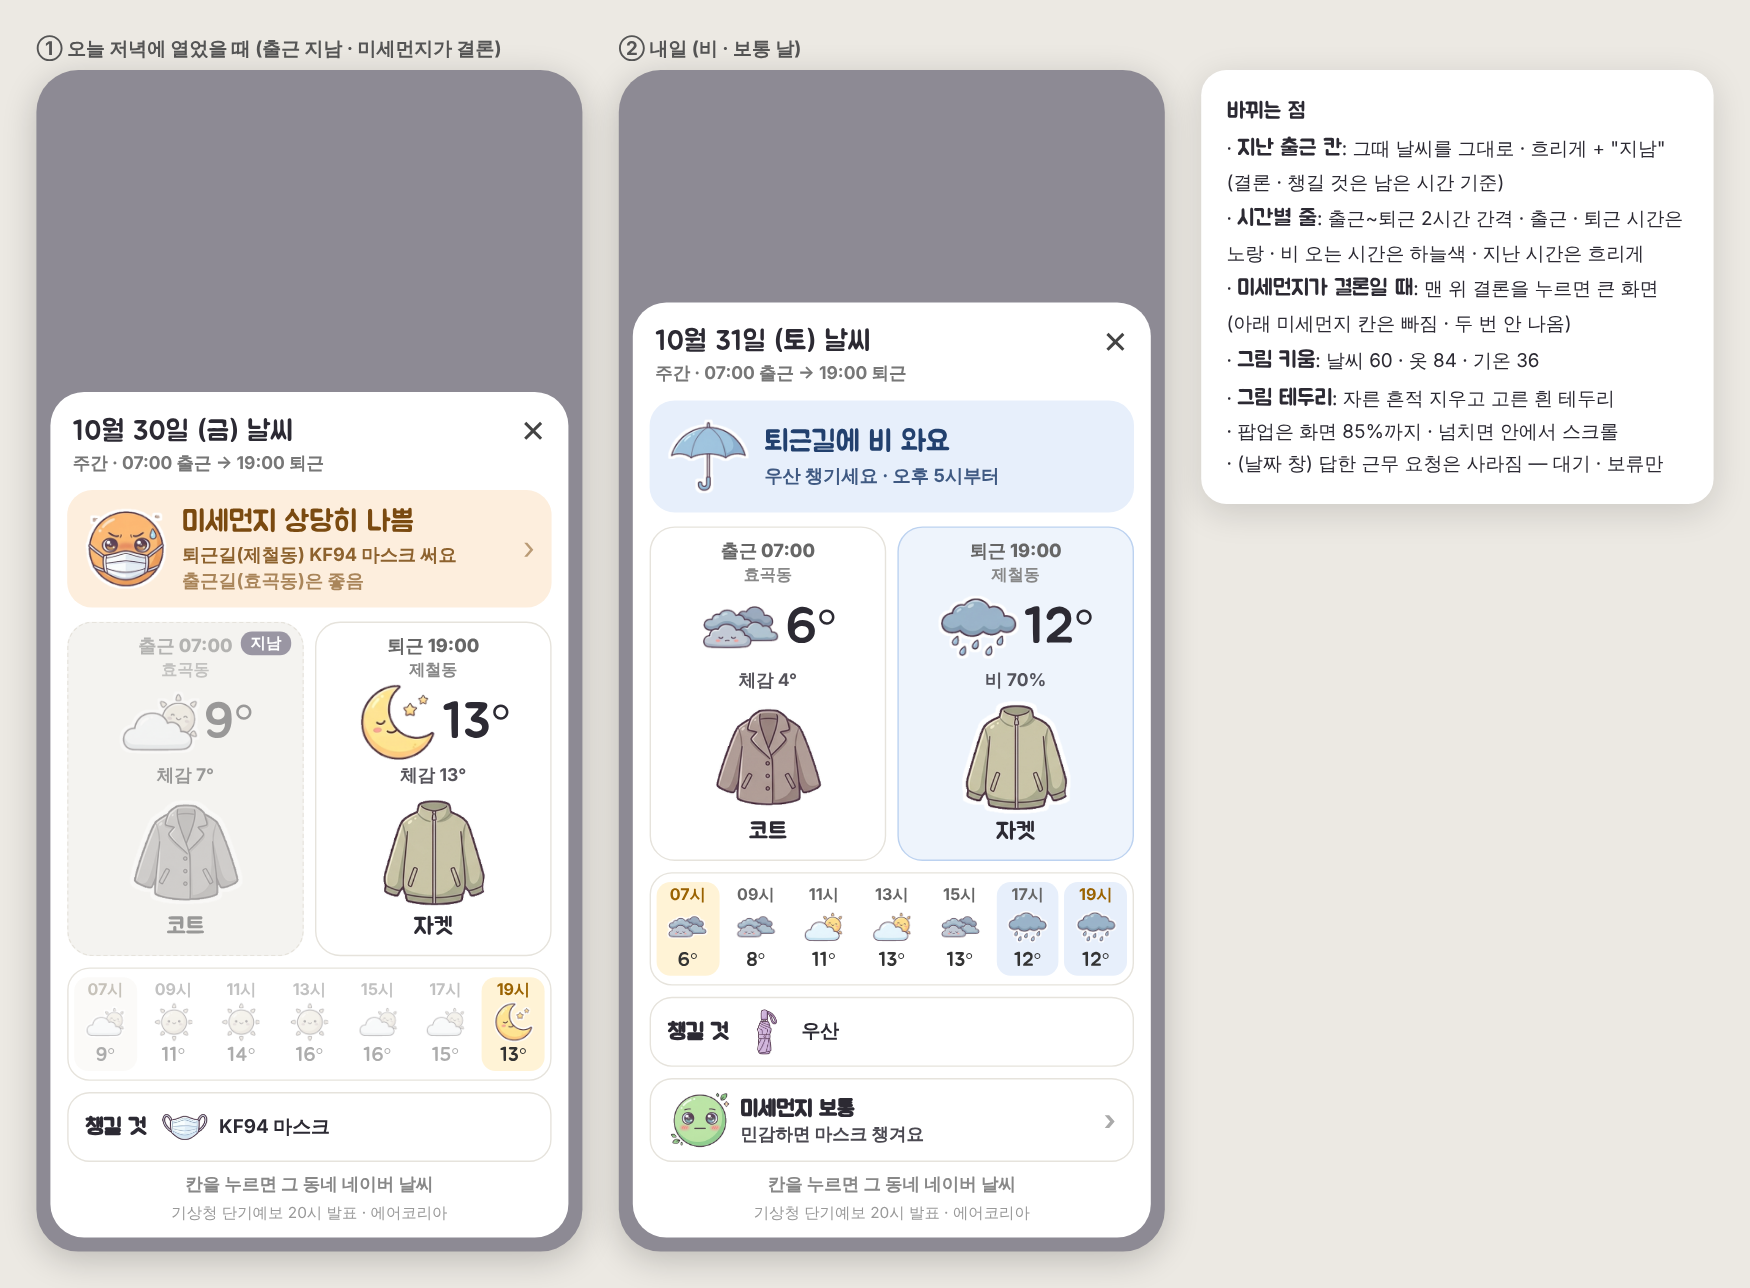
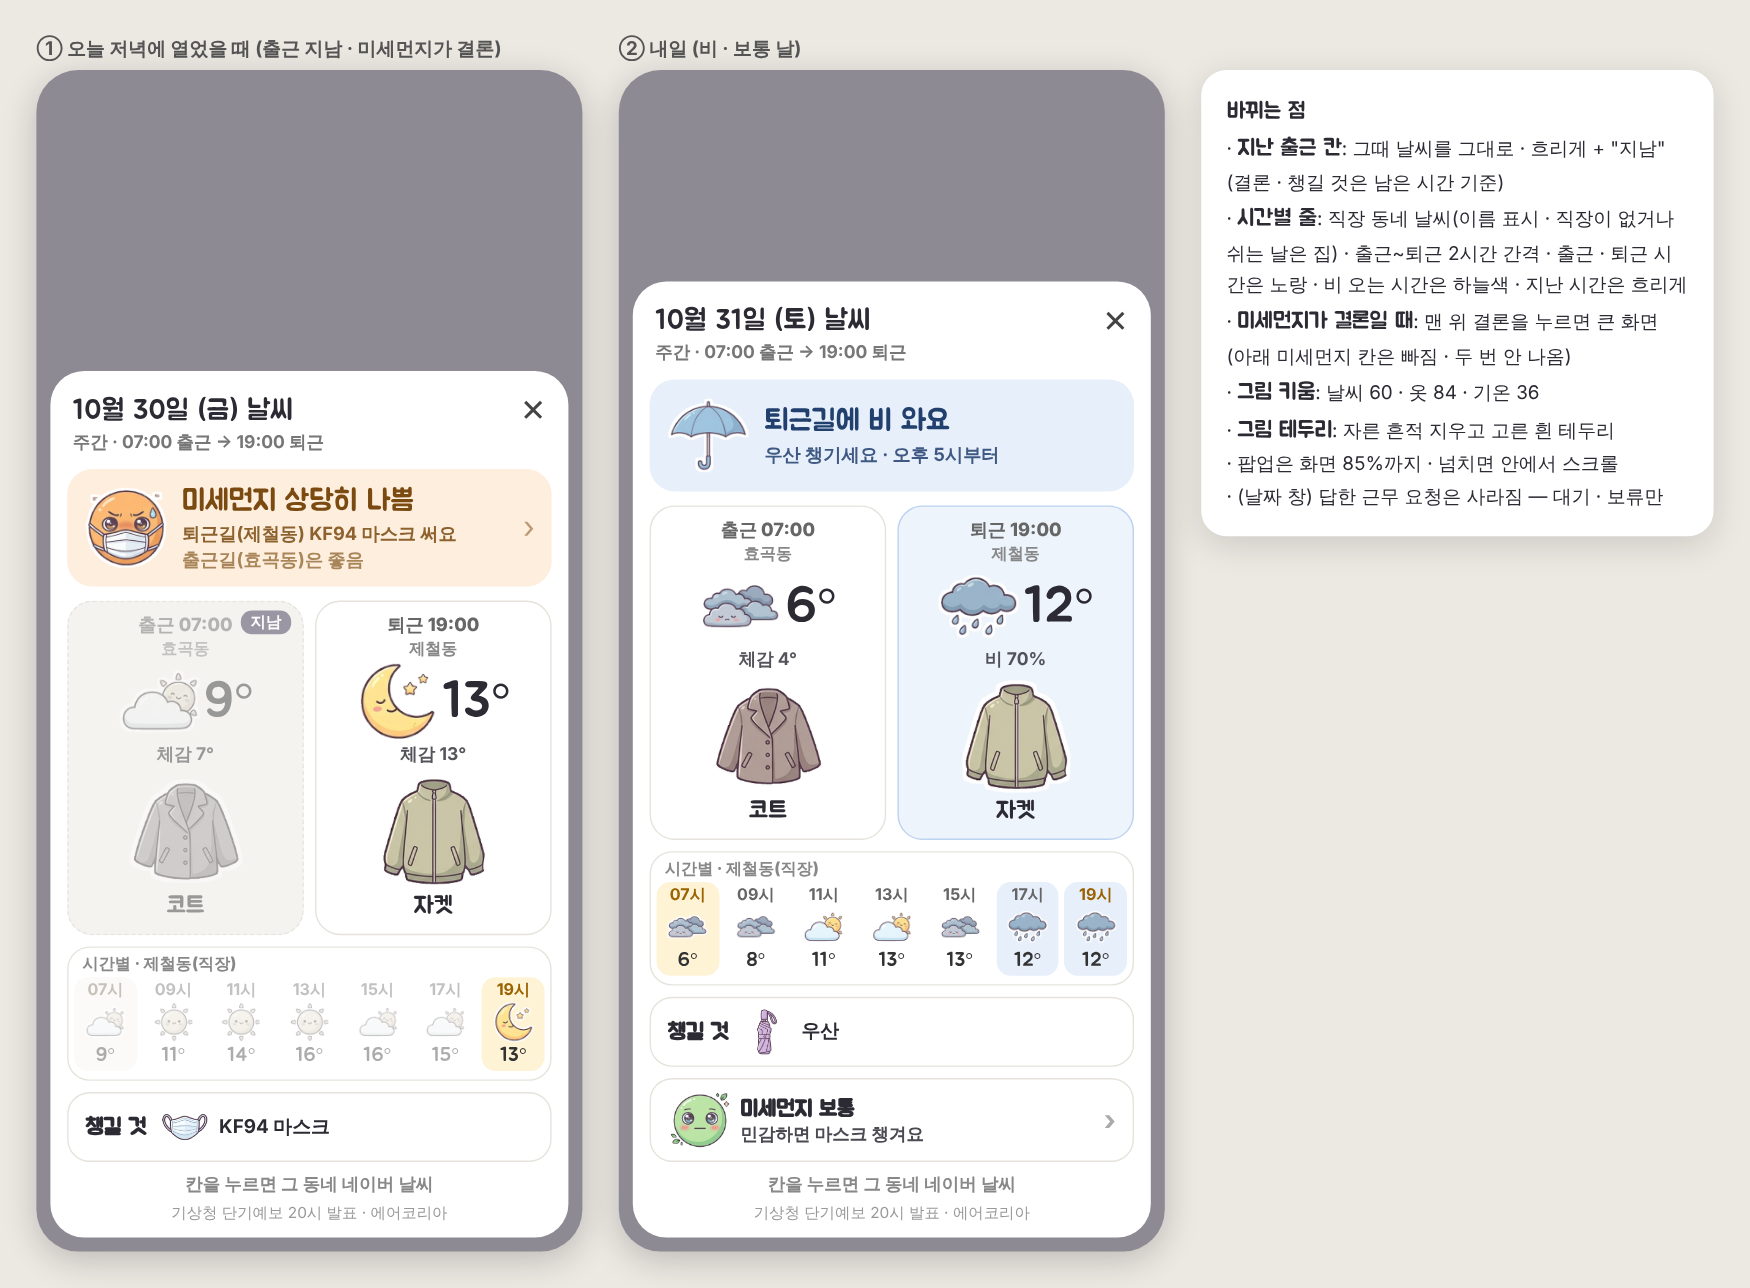
시안 v3: 시간별 줄 = 직장 동네 (이름 표시)
Claude-Session: https://claude.ai/code/session_01JTBnEvptp151JygSjZNCTX

diff --git a/design/weather/v3-mock.html b/design/weather/v3-mock.html
@@ -10,7 +10,7 @@ body{margin:0;background:#ece9e3;font-family:system-ui,'Noto Sans CJK KR',sans-s
 .c .s{display:flex;align-items:center;justify-content:center;gap:2px}.c .s img{width:60px}.c .s b{font-family:J;font-weight:400;font-size:36px;line-height:1}
 .c .d{font-size:12.5px;font-weight:700;opacity:.8}.c img.w{display:block;width:84px;margin:4px auto 0}.c .y{font-family:J;font-size:17px}
 .c.past{background:#f4f3f0;border-style:dashed}.c.past>*:not(.tag){opacity:.45;filter:grayscale(.8)}.tag{position:absolute;top:6px;right:8px;font-size:11px;font-weight:800;color:#fff;background:#9a96a3;border-radius:8px;padding:1px 7px}
-.hr{display:flex;gap:4px;margin-top:8px;padding:6px 4px;border-radius:16px;border:1.5px solid #e6e3dc}
+.hrw{margin-top:8px;padding:4px 4px 6px;border-radius:16px;border:1.5px solid #e6e3dc}.hrw .hl{font-size:11.5px;font-weight:800;color:#888;padding:0 6px 2px}.hrw .hr{border:0;margin:0;padding:0}.hr{display:flex;gap:4px;margin-top:8px;padding:6px 4px;border-radius:16px;border:1.5px solid #e6e3dc}
 .h{flex:1;text-align:center;font-size:11.5px;font-weight:700;color:#666;border-radius:10px;padding:2px 0}.h img{display:block;width:30px;margin:0 auto}.h b{display:block;font-family:J;font-weight:400;font-size:14px;color:#333}
 .h.on{background:#fff3d6;color:#9a6200}.h.wet{background:#e7effb}.h.pa{opacity:.4;filter:grayscale(.8)}
 .row{display:flex;align-items:center;gap:6px;margin-top:8px;padding:6px 12px;border-radius:16px;border:1.5px solid #e6e3dc;font-size:13.5px;font-weight:700}
@@ -22,19 +22,19 @@ body{margin:0;background:#ece9e3;font-family:system-ui,'Noto Sans CJK KR',sans-s
 <div class="k" style="background:#fdeedd;color:#7a4a10"><img src="clean/faces/5_sangdang.png"><div><b>미세먼지 상당히 나쁨</b><small>퇴근길(제철동) KF94 마스크 써요<br><span style="opacity:.75">출근길(효곡동)은 좋음</span></small></div><span class="go">›</span></div>
 <div class="cs"><div class="c past"><span class="tag">지남</span><div class="l">출근 07:00</div><div class="p">효곡동</div><div class="s"><img src="clean/sky/partly.png"><b>9°</b></div><div class="d">체감 7°</div><img class="w" src="clean/wear/coat.png"><div class="y">코트</div></div>
 <div class="c"><div class="l">퇴근 19:00</div><div class="p">제철동</div><div class="s"><img src="clean/sky/moon.png"><b>13°</b></div><div class="d">체감 13°</div><img class="w" src="clean/wear/jacket.png"><div class="y">자켓</div></div></div>
-<div class="hr"><div class="h on pa">07시<img src="clean/sky/partly.png"><b>9°</b></div><div class="h pa">09시<img src="clean/sky/sun.png"><b>11°</b></div><div class="h pa">11시<img src="clean/sky/sun.png"><b>14°</b></div><div class="h pa">13시<img src="clean/sky/sun.png"><b>16°</b></div><div class="h pa">15시<img src="clean/sky/partly.png"><b>16°</b></div><div class="h pa">17시<img src="clean/sky/partly.png"><b>15°</b></div><div class="h on">19시<img src="clean/sky/moon.png"><b>13°</b></div></div>
+<div class="hrw"><div class="hl">시간별 · 제철동(직장)</div><div class="hr"><div class="h on pa">07시<img src="clean/sky/partly.png"><b>9°</b></div><div class="h pa">09시<img src="clean/sky/sun.png"><b>11°</b></div><div class="h pa">11시<img src="clean/sky/sun.png"><b>14°</b></div><div class="h pa">13시<img src="clean/sky/sun.png"><b>16°</b></div><div class="h pa">15시<img src="clean/sky/partly.png"><b>16°</b></div><div class="h pa">17시<img src="clean/sky/partly.png"><b>15°</b></div><div class="h on">19시<img src="clean/sky/moon.png"><b>13°</b></div></div></div>
 <div class="row"><span class="kk">챙길 것</span><img src="clean/wear/mask.png"><span>KF94 마스크</span></div>
 <span class="web">칸을 누르면 그 동네 네이버 날씨</span><div class="src">기상청 단기예보 20시 발표 · 에어코리아</div></div></div></div><div class="wrap"><div class="cap">② 내일 (비 · 보통 날)</div><div class="ph"><div class="sheet">
 <div class="hd"><div><b>10월 31일 (토) 날씨</b><small>주간 · 07:00 출근 → 19:00 퇴근</small></div><span class="x">✕</span></div>
 <div class="k" style="background:#e7effb;color:#22406e"><img src="clean/wear/umbrella.png"><div><b>퇴근길에 비 와요</b><small>우산 챙기세요 · 오후 5시부터</small></div></div>
 <div class="cs"><div class="c"><div class="l">출근 07:00</div><div class="p">효곡동</div><div class="s"><img src="clean/sky/cloudy.png"><b>6°</b></div><div class="d">체감 4°</div><img class="w" src="clean/wear/coat.png"><div class="y">코트</div></div>
 <div class="c hot"><div class="l">퇴근 19:00</div><div class="p">제철동</div><div class="s"><img src="clean/sky/rain.png"><b>12°</b></div><div class="d">비 70%</div><img class="w" src="clean/wear/jacket.png"><div class="y">자켓</div></div></div>
-<div class="hr"><div class="h on">07시<img src="clean/sky/cloudy.png"><b>6°</b></div><div class="h ">09시<img src="clean/sky/cloudy.png"><b>8°</b></div><div class="h ">11시<img src="clean/sky/partly.png"><b>11°</b></div><div class="h ">13시<img src="clean/sky/partly.png"><b>13°</b></div><div class="h ">15시<img src="clean/sky/cloudy.png"><b>13°</b></div><div class="h wet">17시<img src="clean/sky/rain.png"><b>12°</b></div><div class="h on wet">19시<img src="clean/sky/rain.png"><b>12°</b></div></div>
+<div class="hrw"><div class="hl">시간별 · 제철동(직장)</div><div class="hr"><div class="h on">07시<img src="clean/sky/cloudy.png"><b>6°</b></div><div class="h ">09시<img src="clean/sky/cloudy.png"><b>8°</b></div><div class="h ">11시<img src="clean/sky/partly.png"><b>11°</b></div><div class="h ">13시<img src="clean/sky/partly.png"><b>13°</b></div><div class="h ">15시<img src="clean/sky/cloudy.png"><b>13°</b></div><div class="h wet">17시<img src="clean/sky/rain.png"><b>12°</b></div><div class="h on wet">19시<img src="clean/sky/rain.png"><b>12°</b></div></div></div>
 <div class="row"><span class="kk">챙길 것</span><img src="clean/wear/umbrella_fold.png"><span>우산</span></div>
 <div class="row dz"><img src="clean/faces/3_botong.png"><div><span class="kk">미세먼지 보통</span><small>민감하면 마스크 챙겨요</small></div><span class="go">›</span></div>
 <span class="web">칸을 누르면 그 동네 네이버 날씨</span><div class="src">기상청 단기예보 20시 발표 · 에어코리아</div></div></div></div><div class="note"><b>바뀌는 점</b><br>
 · <b>지난 출근 칸</b>: 그때 날씨를 그대로 · 흐리게 + "지남" (결론 · 챙길 것은 남은 시간 기준)<br>
-· <b>시간별 줄</b>: 출근~퇴근 2시간 간격 · 출근 · 퇴근 시간은 노랑 · 비 오는 시간은 하늘색 · 지난 시간은 흐리게<br>
+· <b>시간별 줄</b>: 직장 동네 날씨(이름 표시 · 직장이 없거나 쉬는 날은 집) · 출근~퇴근 2시간 간격 · 출근 · 퇴근 시간은 노랑 · 비 오는 시간은 하늘색 · 지난 시간은 흐리게<br>
 · <b>미세먼지가 결론일 때</b>: 맨 위 결론을 누르면 큰 화면 (아래 미세먼지 칸은 빠짐 · 두 번 안 나옴)<br>
 · <b>그림 키움</b>: 날씨 60 · 옷 84 · 기온 36<br>
 · <b>그림 테두리</b>: 자른 흔적 지우고 고른 흰 테두리<br>
